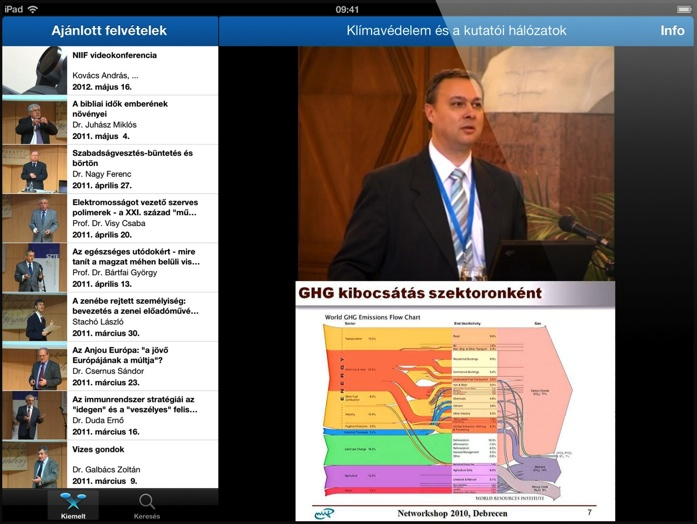
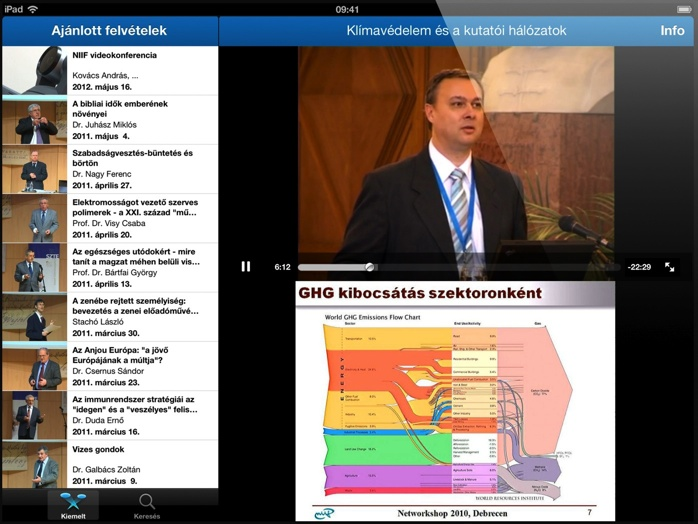
Fix black line on the right and add controls to the video.

diff --git a/web/index.html b/web/index.html
@@ -50,7 +50,7 @@
       position: absolute;
       top: 164px;
       left: 677px; 
-      width: 697px;
+      width: 698px;
       height: 524px;
       background-size: 100%;
       background-image: url(ipad_inner.jpg);
